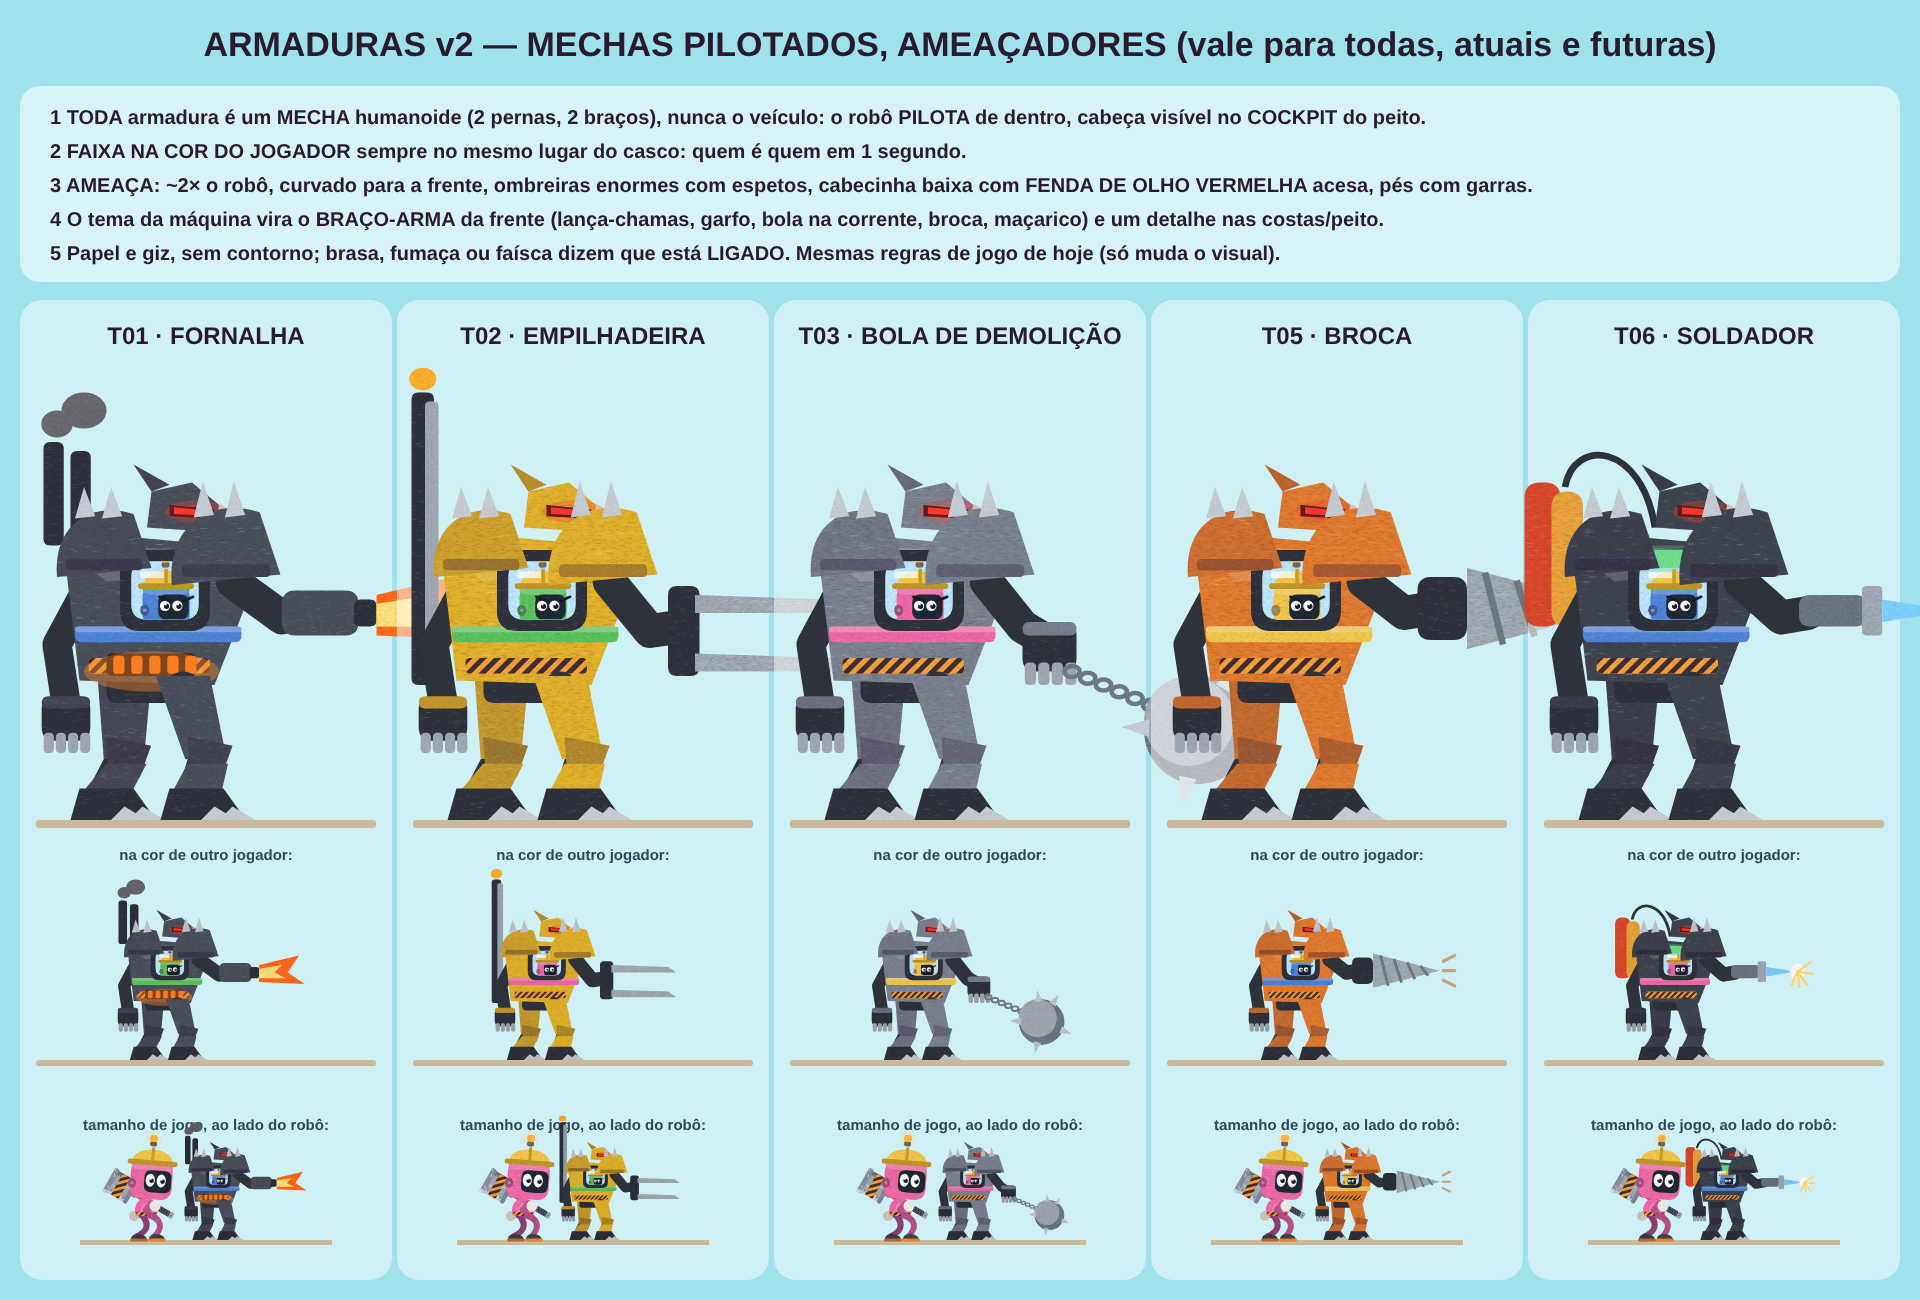
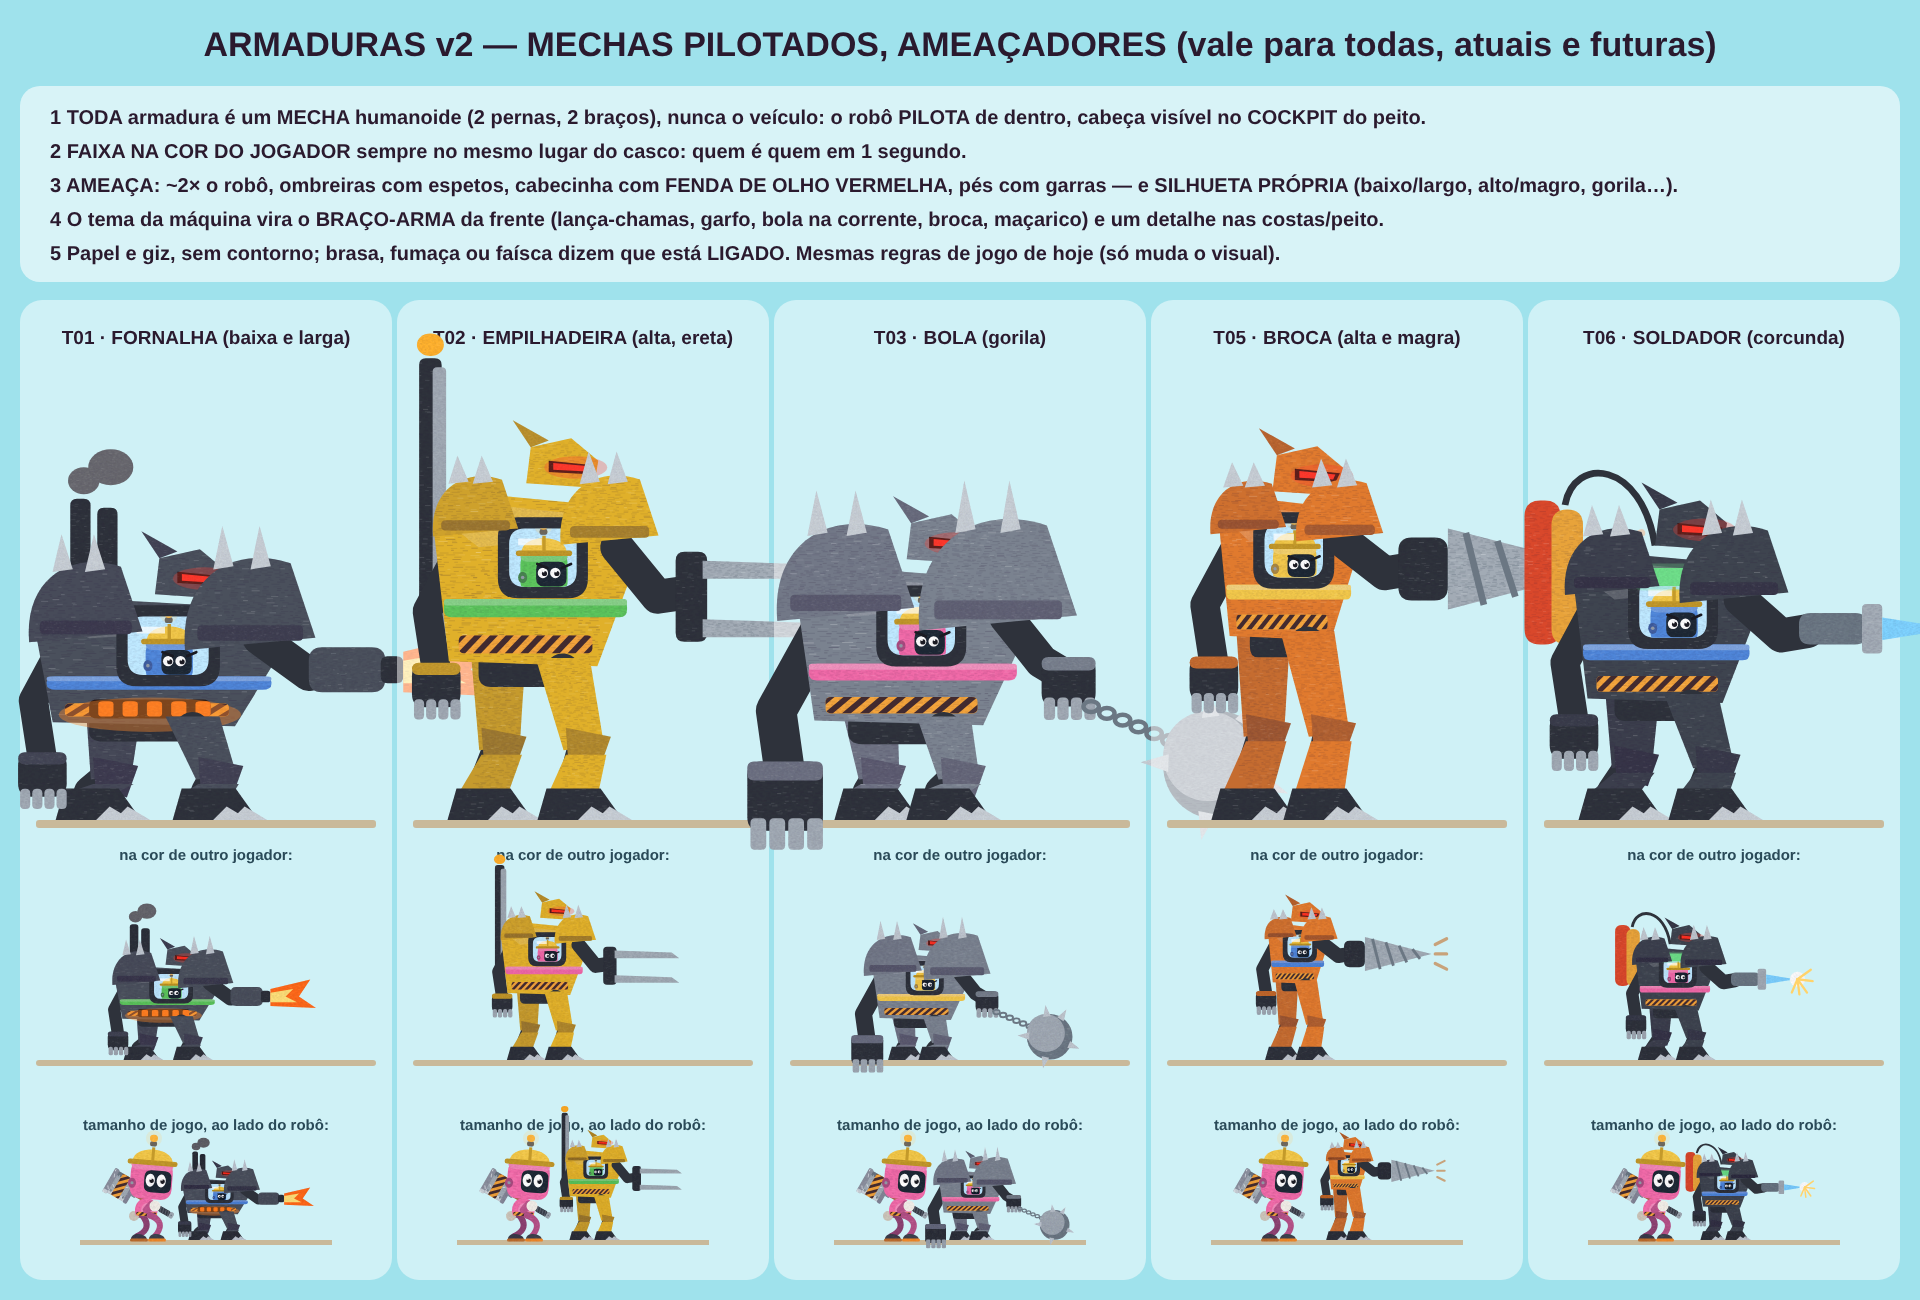
Armaduras v2: silhueta própria para cada mecha (baixa/larga, alta, gorila, magra, corcunda)
Claude-Session: https://claude.ai/code/session_017desNJLabnbh98EwrZ9vQj

diff --git a/art/src/robos/armaduras_conceito.py b/art/src/robos/armaduras_conceito.py
@@ -101,21 +101,37 @@ def punho(x, y, casco, s=1.0):
     return o + R(x - 12 * s, y - 10 * s, 24 * s, 6 * s, 3, casco, k=0.2)
 
 
-def mecha(col, casco, arma, extra_costas="", extra_peito="", cab=(30, 26)):
-    """Mecha humanoide padrão: curvado para a frente, ombros enormes, cockpit no peito, braço-arma à frente."""
-    o = extra_costas
-    o += perna_mecha(-14, -58, -22, shade(casco, -0.15), 0.6)                                           # perna de trás
-    o += f'<path d="M-30,-104 L-44,-78 L-40,-52" stroke="{DARK}" stroke-width="13" fill="none" stroke-linecap="round" stroke-linejoin="round"/>' + punho(-40, -46, shade(casco, -0.15), 0.9)  # braço de trás
-    o += R(-22, -66, 40, 14, 5, DARK, k=0.4)                                                            # quadril
-    o += S("M-34,-62 L-40,-112 L-14,-126 L30,-122 L40,-96 L26,-60 Z", casco, (-41, -127, 41, -59), k=0.7)   # tronco em V
+def mecha(col, casco, arma, extra_costas="", extra_peito="", cab=(30, 26), H=58, tw=1.0, th=1.0, gorila=False, ombro=1.0, perna=1.0):
+    """Mecha humanoide com CORPO PRÓPRIO: H = altura do quadril, tw/th = largura/altura do tronco, gorila = braço de trás
+    apoiado no chão (punho), ombro = tamanho das ombreiras. A arma é desenhada no quadro padrão e levada até o ombro."""
+    def T(x, y):   # quadro padrão do tronco (quadril em -58) → corpo deste mecha
+        return x * tw, -H + (y + 58) * th
+    sx, sy = T(34, -106)
+    dx, dy = sx - 34, sy + 106
+    tr = f"translate(0,{-H}) scale({tw},{th}) translate(0,58)"
+    o = f'<g transform="translate({dx:.1f},{dy:.1f})">{extra_costas}</g>' if extra_costas else ""
+    o += perna_mecha(-14 * tw, -H, -22 * perna, shade(casco, -0.15), 0.6)                               # perna de trás
+    bx, by = T(-30, -104)
+    if gorila:   # braço de trás enorme, nó dos dedos no chão
+        o += f'<path d="M{bx},{by} L{bx - 22},{by + (-by) * 0.45} L{bx - 18},-20" stroke="{DARK}" stroke-width="18" fill="none" stroke-linecap="round" stroke-linejoin="round"/>' + punho(bx - 18, -12, shade(casco, -0.15), 1.4)
+    else:
+        o += f'<path d="M{bx},{by} L{bx - 14},{by + 26} L{bx - 10},{by + 52}" stroke="{DARK}" stroke-width="13" fill="none" stroke-linecap="round" stroke-linejoin="round"/>' + punho(bx - 10, by + 58, shade(casco, -0.15), 0.9)
+    o += f'<g transform="{tr}">'
+    o += R(-22, -66, 40, 14, 5, DARK, k=0.4)
+    o += S("M-34,-62 L-40,-112 L-14,-126 L30,-122 L40,-96 L26,-60 Z", casco, (-41, -127, 41, -59), k=0.7)
     o += P_([(-30, -112), (-14, -122), (28, -118), (20, -110), (-22, -106)], shade(casco, 0.18), k=0.2)
-    o += cb.faixa(-30, -72, 54, 7, n=7) + faixa_jogador(-36, -86, 74, col)
-    o += cabine_peito(4, -102, cab[0], cab[1], col) + extra_peito
-    o += perna_mecha(12, -58, 18, casco, 1.0)                                                           # perna da frente
-    o += cabeca_mecha(10, -136, casco)
-    o += ombreira(-24, -118, shade(casco, -0.1), 1.0)
-    o += arma
-    o += ombreira(30, -116, casco, 1.15)
+    o += cb.faixa(-30, -72, 54, 7, n=7) + faixa_jogador(-36, -86, 74, col) + "</g>"
+    cx, cy = T(4, -102)
+    o += cabine_peito(cx, cy, cab[0], cab[1], col)
+    o += f'<g transform="{tr}">{extra_peito}</g>'
+    o += perna_mecha(12 * tw, -H, 18 * perna, casco, 1.0)                                                # perna da frente
+    hx, hy = T(10, -136)
+    o += cabeca_mecha(hx, hy, casco)
+    ox, oy = T(-24, -118)
+    o += ombreira(ox, oy, shade(casco, -0.1), ombro)
+    o += f'<g transform="translate({dx:.1f},{dy:.1f})">{arma}</g>'
+    ox, oy = T(30, -116)
+    o += ombreira(ox, oy, casco, 1.15 * ombro)
     return o
 
 
@@ -127,7 +143,7 @@ def fornalha(col):
     arma = f'<path d="M34,-106 L56,-90 L66,-92" stroke="{DARK}" stroke-width="15" fill="none" stroke-linecap="round" stroke-linejoin="round"/>'
     arma += R(56, -102, 34, 20, 6, casco, k=0.4) + R(88, -98, 10, 12, 3, DARK, k=0.3)
     arma += P_([(98, -100), (140, -110), (128, -92), (146, -80), (98, -82)], "#ff6a1a", k=0.4) + P_([(98, -96), (122, -100), (114, -92), (126, -86), (98, -86)], "#ffe27a", k=0.3)
-    return mecha(col, casco, arma, costas, peito)
+    return mecha(col, casco, arma, costas, peito, cab=(36, 26), H=40, tw=1.35, th=0.85, ombro=1.2, perna=1.3)   # BAIXA e LARGA
 
 
 # ---------------------------------------------------------------- T02 EMPILHADEIRA: mecha de carga, mastro hidráulico nas costas, braço-GARFO de 2 lâminas
@@ -138,7 +154,7 @@ def empilhadeira(col):
     arma += R(60, -104, 14, 40, 4, DARK, k=0.4)
     for y in (-100, -74):
         arma += S(f"M72,{y} L132,{y + 2} L140,{y + 8} L72,{y + 8} Z", STEEL, (71, y - 1, 141, y + 9), k=0.4, dark=STEEL_D, light=STEEL_L)
-    return mecha(col, casco, arma, costas)
+    return mecha(col, casco, arma, costas, H=66, tw=1.1, th=1.15, ombro=0.9)   # ALTA e QUADRADA, ereta
 
 
 # ---------------------------------------------------------------- T03 BOLA: mecha de demolição, punho = BOLA de aço na corrente (e se enrola numa bola para rolar)
@@ -148,7 +164,7 @@ def bola(col):
     arma += "".join(f'<ellipse cx="{72 + i * 7}" cy="{-66 + i * 3}" rx="3.4" ry="2.4" fill="none" stroke="{STEEL_D}" stroke-width="2"/>' for i in range(6))
     arma += E(128, -40, 24, 24, STEEL_D, k=0.6) + E(124, -44, 20, 20, STEEL, k=0.3, light=STEEL_L)
     arma += "".join(P_([(128 + math.cos(a) * 22, -40 + math.sin(a) * 22), (128 + math.cos(a + 0.18) * 34, -40 + math.sin(a + 0.18) * 34), (128 + math.cos(a + 0.36) * 22, -40 + math.sin(a + 0.36) * 22)], STEEL_L, k=0.1) for a in (-1.2, 0.2, 1.6, 3.0, 4.4))
-    return mecha(col, casco, arma)
+    return mecha(col, casco, arma, H=40, tw=1.25, th=1.05, gorila=True, ombro=1.45, perna=0.8)   # GORILA: punho no chão
 
 
 # ---------------------------------------------------------------- T05 BROCA: mecha perfurador laranja, braço = broca enorme girando
@@ -159,7 +175,7 @@ def broca(col):
     arma += S("M80,-112 L150,-94 L80,-76 Z", STEEL, (79, -113, 151, -75), k=0.5, dark=STEEL_D, light=STEEL_L)
     arma += "".join(f'<path d="M{88 + i * 14},{-110 + i * 3.6} L{96 + i * 14},{-78 - i * 3.6}" stroke="{STEEL_D}" stroke-width="3"/>' for i in range(4))
     arma += "".join(f'<path d="M154,{-94 + d} l12,{d * 0.6}" stroke="#c8a27a" stroke-width="3.4" stroke-linecap="round"/>' for d in (-10, 0, 10))
-    return mecha(col, casco, arma)
+    return mecha(col, casco, arma, cab=(26, 24), H=78, tw=0.75, th=0.95, ombro=0.8, perna=0.8)   # ALTA e MAGRA, pernas compridas
 
 
 # ---------------------------------------------------------------- T06 SOLDADOR: mecha de solda, tanques nas costas, visor verde sobre o cockpit, maçarico
@@ -171,15 +187,15 @@ def soldador(col):
     arma += R(60, -100, 30, 14, 5, STEEL_D, k=0.3) + R(88, -104, 9, 22, 2, STEEL, k=0.3)
     arma += P_([(97, -98), (128, -93), (97, -88)], "#7fd3ff", k=0.2) + E(130, -93, 8, 8, "#ffffff", k=0.2)
     arma += "".join(f'<path d="M130,-93 l{dx},{dy}" stroke="#ffd36b" stroke-width="2.4" stroke-linecap="round"/>' for dx, dy in ((14, -10), (16, 2), (10, 14), (2, 16), (-6, 14)))
-    return mecha(col, casco, arma, costas, peito)
+    return mecha(col, casco, arma, costas, peito, H=50, tw=1.0, th=1.0)   # CORCUNDA de tanques
 
 
-ARMAS = [("T01 · FORNALHA", fornalha, "#4f86d9"), ("T02 · EMPILHADEIRA", empilhadeira, "#5cc45c"), ("T03 · BOLA DE DEMOLIÇÃO", bola, "#f06aa8"),
-         ("T05 · BROCA", broca, "#f2c84b"), ("T06 · SOLDADOR", soldador, "#4f86d9")]
+ARMAS = [("T01 · FORNALHA (baixa e larga)", fornalha, "#4f86d9"), ("T02 · EMPILHADEIRA (alta, ereta)", empilhadeira, "#5cc45c"), ("T03 · BOLA (gorila)", bola, "#f06aa8"),
+         ("T05 · BROCA (alta e magra)", broca, "#f2c84b"), ("T06 · SOLDADOR (corcunda)", soldador, "#4f86d9")]
 
 REGRAS = ["1  TODA armadura é um MECHA humanoide (2 pernas, 2 braços), nunca o veículo: o robô PILOTA de dentro, cabeça visível no COCKPIT do peito.",
           "2  FAIXA NA COR DO JOGADOR sempre no mesmo lugar do casco: quem é quem em 1 segundo.",
-          "3  AMEAÇA: ~2× o robô, curvado para a frente, ombreiras enormes com espetos, cabecinha baixa com FENDA DE OLHO VERMELHA acesa, pés com garras.",
+          "3  AMEAÇA: ~2× o robô, ombreiras com espetos, cabecinha com FENDA DE OLHO VERMELHA, pés com garras — e SILHUETA PRÓPRIA (baixo/largo, alto/magro, gorila…).",
           "4  O tema da máquina vira o BRAÇO-ARMA da frente (lança-chamas, garfo, bola na corrente, broca, maçarico) e um detalhe nas costas/peito.",
           "5  Papel e giz, sem contorno; brasa, fumaça ou faísca dizem que está LIGADO. Mesmas regras de jogo de hoje (só muda o visual)."]
 
@@ -195,7 +211,7 @@ def prancha():
         x = 20 + i * (cw + 5)
         cx = x + cw / 2
         b.append(f'<rect x="{x}" y="300" width="{cw}" height="980" rx="22" fill="#ffffff" opacity="0.5"/>')
-        b.append(label(cx, 344, nome, 24, INK))
+        b.append(label(cx, 344, nome, 19, INK))
         gy = 820
         b.append(f'<rect x="{x + 16}" y="{gy}" width="{cw - 32}" height="8" rx="3" fill="#c9b99a"/>')
         b.append(f'<g transform="translate({cx - 50},{gy}) scale(2.25)">{fn(col)}</g>')
